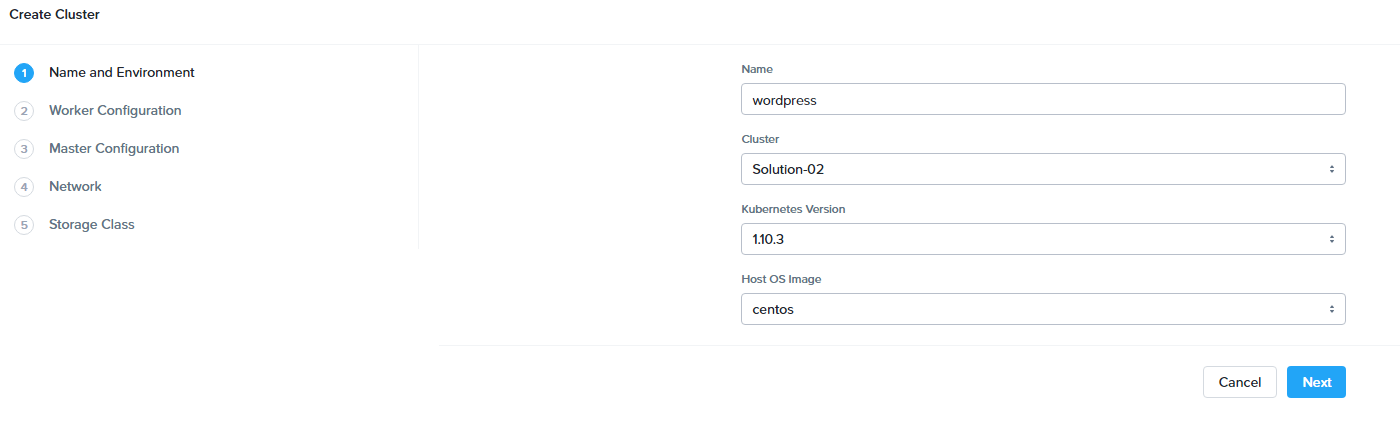
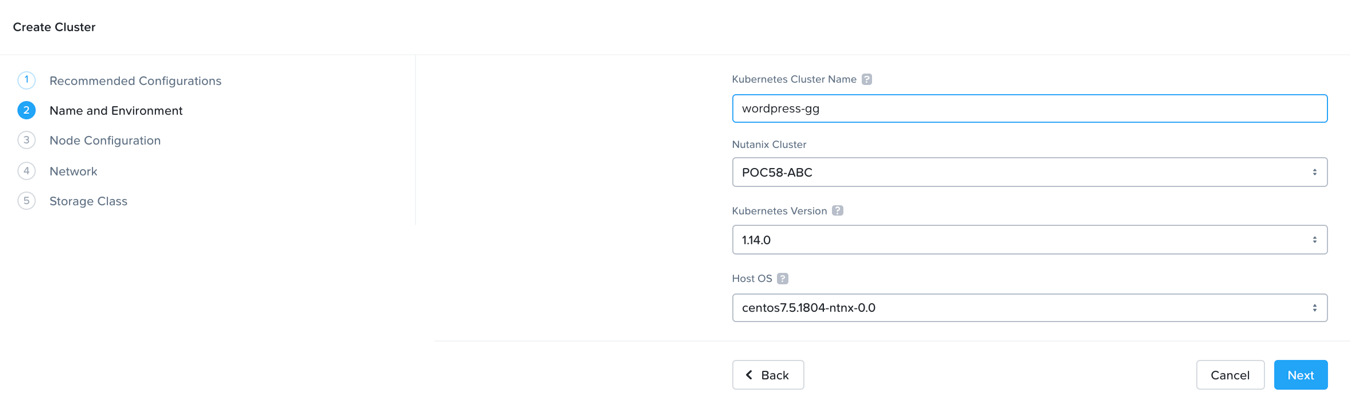
1

diff --git a/karbon_create_cluster/karbon_create_cluster.rst b/karbon_create_cluster/karbon_create_cluster.rst
@@ -24,15 +24,21 @@ Create a Karbon Kubernetes Cluster
 
 In this exercise you will create a production ready Kubernetes cluster with Nutanix Karbon.
 
+Open https://<Prism-Central-IP>:9440/ in a browser and log in.
+
 Navigate to **Prism Central > Select the Three Dashes > Karbon** and ensure you see a ‘Karbon is successfully enabled’ notification.
 
 Click the link to open the Karbon Console.
 
 .. image:: images/karbon_create_cluster_0.png
 
-Next click **+ Create Cluster**.
+Next click **+ Create Kubernetes Cluster**.
 
 .. image:: images/karbon_create_cluster_2.png
+
+Select “Production Cluster” and click **Next**
+
+.. image:: images/karbon_create_cluster_1.png
 
 Fill in the following:
 
@@ -47,61 +53,19 @@ Fill in the following:
 
 Click **Next**
 
-**Worker Configuration**
+Select the virtual network to deploy Kubernetes nodes and click **Next**. The virtual network selected must have AHV IPAM enabled (with DNS & NTP configured in both Prism Central & Prism Elements accordingly). You must also key in an IP Address for the Master VIP that is within the same virtual network but outside of the IPAM range specified for the virtual network.
 
-.. note::
+.. image:: images/karbon_create_cluster_31.png
 
-  This defines the number of worker nodes that will run the Kubernetes pods.
+Enter Service & POD CIDR ranges and click **Next**. Keeping the defaults is recommended for this lab.
 
-Leave all defaults
+.. image:: images/karbon_create_cluster_32.png
 
-.. image:: images/karbon_create_cluster_4.png
+Enter a username & password for the selected target Prism Elements cluster with administrative privileges and click **Create**
 
-Click **Next**.
+.. image:: images/karbon_create_cluster_33.png
 
-**Master Configuration**
-
-.. note::
-
-  This defines the number of master nodes that controls the Kubernetes cluster, and the number of etcd VMs, which manages the cluster state.
-
-Leave all defaults.
-
-.. image:: images/karbon_create_cluster_5.png
-
-click **Next**.
-
-**Network**
-
-.. note::
-
-  We use flannel as the network provider. More information on Flannel can be found here: https://github.com/coreos/flannel#flannel
-
-- **Network Provider** - Flannel
-- **VM Network** - Primary
-- **Service CIDR** - Leave the default of 172.19.0.0/16
-- **Pod CIDR** - Leave the default of 172.20.0.0/16
-
-.. image:: images/karbon_create_cluster_6.png
-
-Click **Next**
-
-**Storage Class**
-
-- **Storage Class Name** - default-storageclass-*initialsLowerCase*
-- **Prism Element Cluster** - Leave default selected
-- **Cluster Username** - admin
-- **Cluster Password** - *HPOC Password*
-- **Storage Container Name** - default-container-XXXXXXX
-- **File System** - ext4
-
-.. image:: images/karbon_create_cluster_7.png
-
-Click **Create**
-
-.. note::
-
-  **Wait until the cluster has been created before proceeding**
+Wait for the cluster to deploy and reach a healthy status
 
 .. image:: images/karbon_create_cluster_20.png
 

diff --git a/karbon_enable/karbon_enable.rst b/karbon_enable/karbon_enable.rst
@@ -83,7 +83,7 @@ Fill out the following fields
 - **Gateway IP Address** – 10.42.xx.1
 - **Domain Name Servers** - 10.42.196.10
 
-Click **+Create Pool**, fill out the range for 10.42.xx.70 to 10.42.xx.90, select **Override DHCP Server**， and give **DHCP Server address** 10.42.xx.126 ,then click **Save**:
+Click **+Create Pool**, fill out the range for 10.42.xx.70 to 10.42.xx.90, select **Override DHCP Server**，and click **Save**:
 
 .. image:: images/karbon_enable_10.png
 
